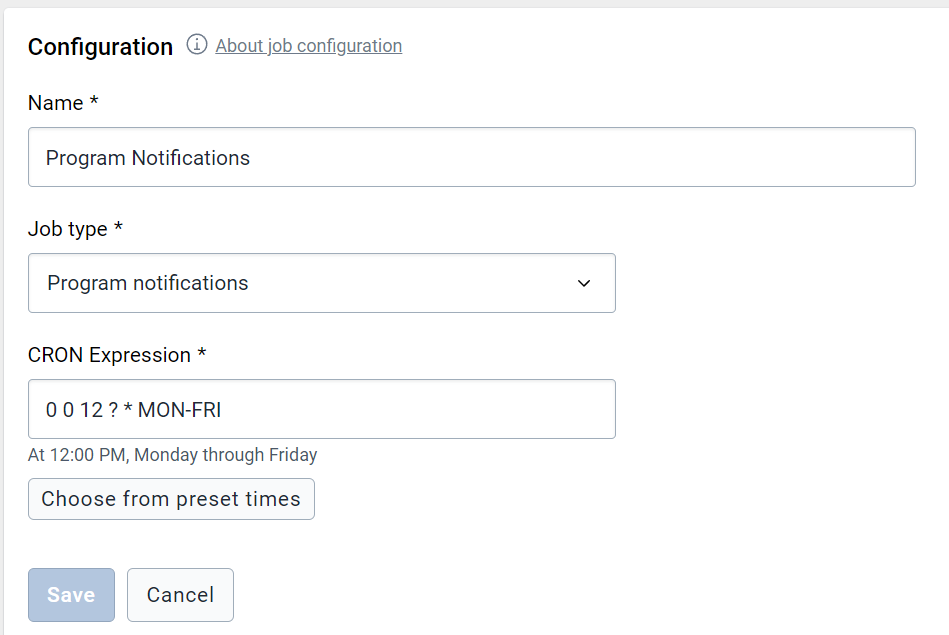
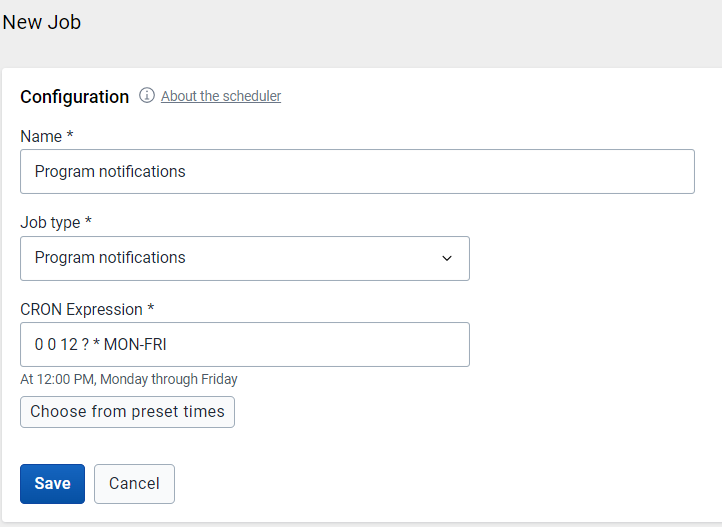
updatestrackerconfig

diff --git a/content/tracker_config/tg_programindicators.md b/content/tracker_config/tg_programindicators.md
@@ -217,7 +217,7 @@ Now that you have created the program indicator, it is a good idea to test if it
 Create a new pivot table with the following details
 
 * Data : the program indicator you made, the program indicator “Extra Pulmonary TB”
-* Period : This year
+* Period : Last year
 * Organisation Unit : Trainingland
 
 Click on update to verify that the values are equal in the indicators. This will provide some validation that the indicator is created correctly.
@@ -302,7 +302,7 @@ Now that you have created the program indicator, it is a good idea to test if it
 Create a new pivot table with the following details
 
 * Data : the program indicator you made, the program indicator “New, Pulmonary TB”
-* Period : This year
+* Period : Last year
 * Organisation Unit : Trainingland
 
 ### Click on update to verify that the values are equal in the indicators. This will provide some validation that the indicator is created correctly.
@@ -388,7 +388,7 @@ Now that you have created the program indicator, it is a good idea to test if it
 Create a new pivot table with the following details
 
 * Data : the program indicator you made, the program indicator “Treatment outcome - failure or death”
-* Period : This year
+* Period : Last year
 * Organisation Unit : Trainingland
 
 Click on update to verify that the values are equal in the indicators. This will provide some validation that the indicator is created correctly.
@@ -509,7 +509,7 @@ Now that you have created the program indicator, it is a good idea to test if it
 Create a new pivot table with the following details
 
 * Data : the program indicator you made, the program indicator “Hospitalized - Initial and Continuation”
-* Period : This year
+* Period : Last year
 * Organisation Unit : Trainingland
 
 Click on update to verify that the values are equal in the indicators. This will provide some validation that the indicator is created correctly.
@@ -688,7 +688,7 @@ Create a pivot table with the inputs:
     1. TB new cases (program indicator from TB treatment card)
     2. Total population (data element)
     3. TB Incidence per 100,000 (the indicator you just made)
-2. Period : Last year
+2. Period : 2022
 3. Org unit : Trainingland
 
 ![](Images/pi/image14.png)

diff --git a/content/tracker_config/lg_programindicator.md b/content/tracker_config/lg_programindicator.md
@@ -181,7 +181,7 @@ Now that you have created the program indicator, it is a good idea to test if it
 Create a new pivot table with the following details
 
 * Data : the program indicator you made, the program indicator “Extra Pulmonary TB”
-* Period : This year
+* Period : Last year
 * Organisation Unit : Trainingland
 
 Click on update to verify that the values are equal in the indicators. This will provide some validation that the indicator is created correctly.
@@ -266,7 +266,7 @@ Now that you have created the program indicator, it is a good idea to test if it
 Create a new pivot table with the following details
 
 * Data : the program indicator you made, the program indicator “New, Pulmonary TB”
-* Period : This year
+* Period : Last year
 * Organisation Unit : Trainingland
 
 Click on update to verify that the values are equal in the indicators. This will provide some validation that the indicator is created correctly.
@@ -352,7 +352,7 @@ Now that you have created the program indicator, it is a good idea to test if it
 Create a new pivot table with the following details
 
 * Data : the program indicator you made, the program indicator “Treatment outcome - failure or death”
-* Period : This year
+* Period : Last year
 * Organisation Unit : Trainingland
 
 Click on update to verify that the values are equal in the indicators. This will provide some validation that the indicator is created correctly.
@@ -470,7 +470,7 @@ Now that you have created the program indicator, it is a good idea to test if it
 Create a new pivot table with the following details
 
 * Data : the program indicator you made, the program indicator “Hospitalized - Initial and Continuation”
-* Period : This year
+* Period : Last year
 * Organisation Unit : Trainingland
 
 Click on update to verify that the values are equal in the indicators. This will provide some validation that the indicator is created correctly.
@@ -641,7 +641,7 @@ Create a pivot table with the inputs:
     1. TB new cases (program indicator from TB treatment card)
     2. Total population (data element)
     3. TB Incidence per 100,000 (the indicator you just made)
-2. Period : Last year
+2. Period : 2022
 3. Org unit : Trainingland
 
 ![](Images/pi/image14.png)

diff --git a/content/tracker_config/tg_programnotification.md b/content/tracker_config/tg_programnotification.md
@@ -10,9 +10,7 @@ This guide is a support document for DHIS2 Academy trainers for the session “P
 
 This guide will help the trainer prepare for the live demo session. The “Live Demo step by step” section has a detailed walkthrough of all the steps to demonstrate with explanations and screenshots that should be easy to follow. Use that when preparing for the live demo session.
 
-There is also a Quick Guide which lists the steps very briefly and this is meant as a lookup
-
-guide or “cheatsheet” WHILE doing the demo, to help the trainer remember all the steps and the flow of the demo.
+There is also a Quick Guide which lists the steps very briefly and this is meant as a lookup guide or “cheatsheet” WHILE doing the demo, to help the trainer remember all the steps and the flow of the demo.
 
 **Background**
 
@@ -201,8 +199,8 @@ You will need to set the time when you want the messages delivered to the intend
 
 1. Navigate to the scheduler app
 
-![](Images/programnoti/image1.png)
+   ![](Images/programnoti/image1.png)
 
-2. Add in the details when you would like these sent out and click on “Add Job” in order to add this to the scheduler
+2. Add in the details when you would like these sent out and click on “New Job” in order to add this to the scheduler
 
-![](Images/programnoti/image16.png)
+   ![](Images/programnoti/image16.png)

diff --git a/content/tracker_use/summary_tracker_capture_web.md b/content/tracker_use/summary_tracker_capture_web.md
@@ -48,7 +48,7 @@ Steps to be followed to Open the Capture app
     - Shared attributes will be carried over between programs. Add in any supplemental information and select "Save."
     - You will be taken to the tracker dashboard in the new program and the person is now enrolled.
 
-## Referrals and Transfere
+## Referrals and Transfer
 
 - You can create one-off events at another facility, refer a person to another facility one-time, or transfer a person permanently
   - One-off events at another location : Select a different organisation unit from the "Registering unit" drop down. Create your new event. It will be in the location you have selected.

diff --git a/content/tracker_config/lg_userroles.md b/content/tracker_config/lg_userroles.md
@@ -286,7 +286,7 @@ After logging in, access the apps menu.
 
 We can already see an immediate difference here in the apps they can access.
 
-You can make an event report using some data from this month from the TB treatment card program to show they now have access to review the data.
+You can make an event report using some data from last year from the TB treatment card program to show they now have access to review the data.
 
 ![](Images/userroles/image6.png)
 

diff --git a/content/tracker_config/tg_userroles.md b/content/tracker_config/tg_userroles.md
@@ -334,7 +334,7 @@ After logging in access the apps menu.
 
 We can already see an immediate difference here in the apps they can access.
 
-You can make an event report using some data from this month from the TB treatment card program to show they now have access to review the data.
+You can make an event report using some data from the TB treatment card program to show they now have access to review the data.
 
 ![](Images/userroles/image6.png)
 
